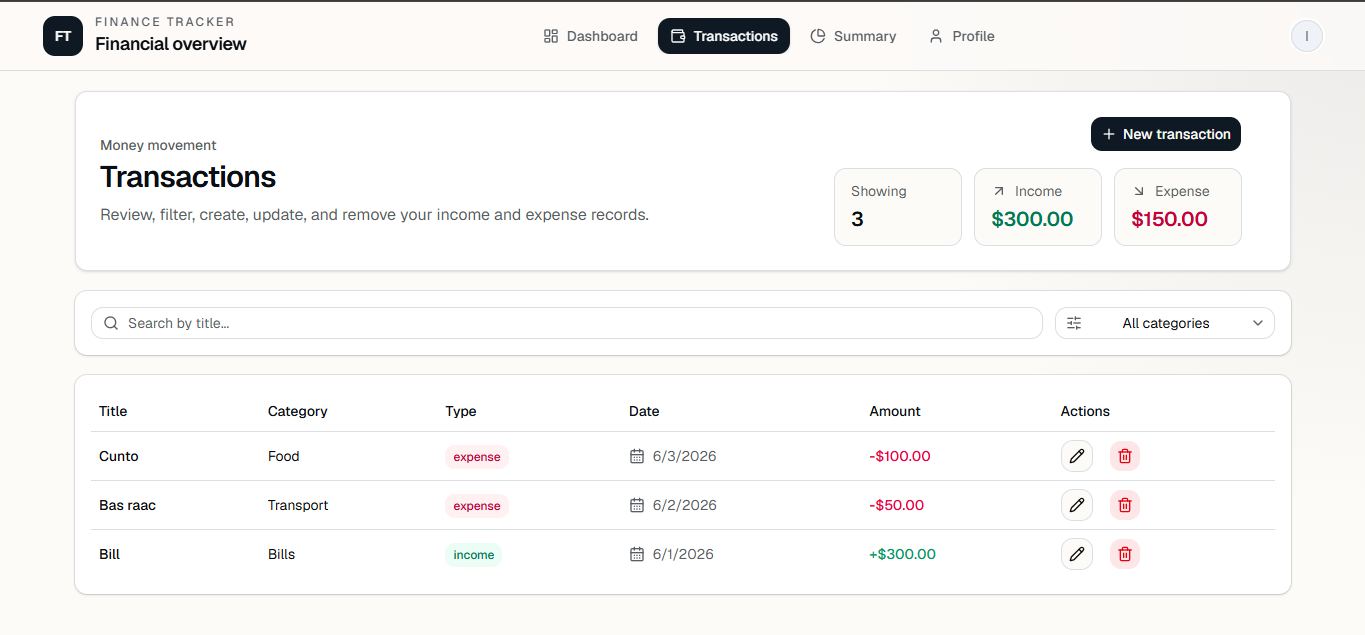
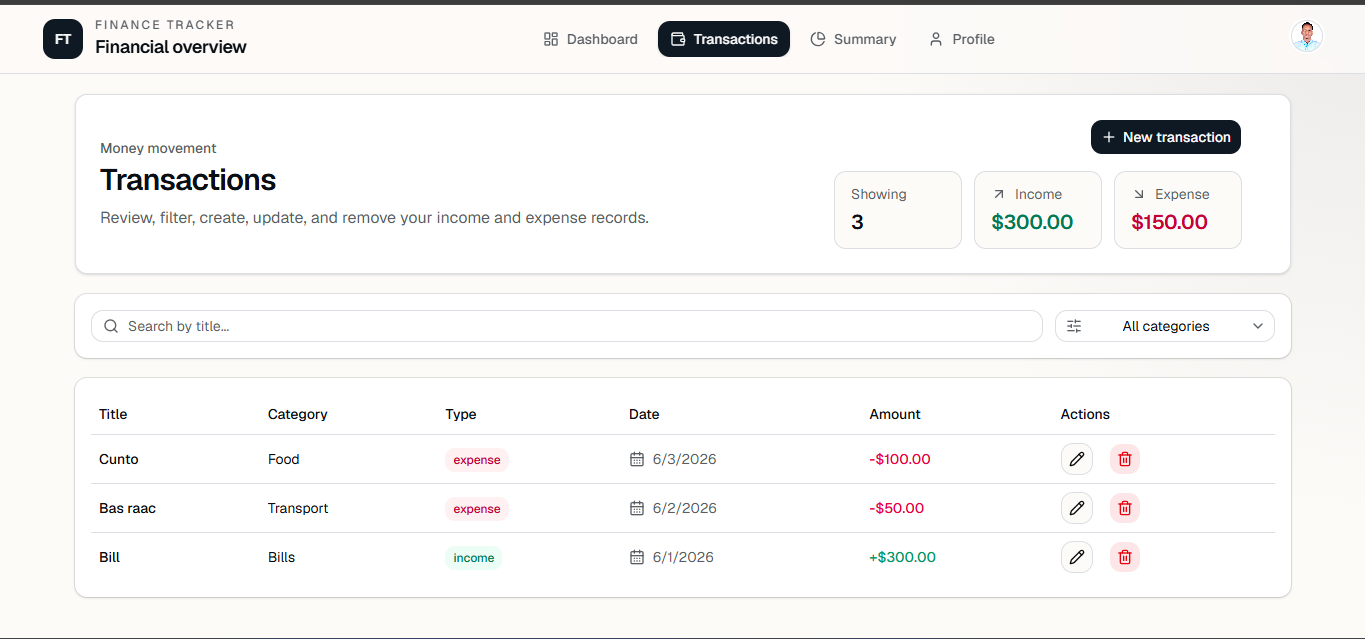
adding screenshots and readme.md

diff --git a/Readme.md b/Readme.md
@@ -1,0 +1,36 @@
+# 📊 Personal Finance Tracker
+
+A modern Mern‑stack web application for tracking income, expenses, categories, and uploads — built with **React (Vite)**, **Node.js**, **MongoDB Atlas**, and **Tailwind CSS**.  
+Deployed live on Render: [Finance Tracker](https://personal-finance-tracker-api-rzyi.onrender.com)
+
+---
+
+## 🚀 Tech Stack
+- **Frontend:** React + Vite + Tailwind CSS
+- **Backend:** Node.js + Express
+- **Database:** MongoDB Atlas
+- **Deployment:** Render
+
+---
+
+## 🖼️ Screenshots
+
+### Login Page
+![Login Screenshot](./screenshots/Register.png)
+
+### 🔑 Login Page
+![Login Screenshot](./screenshots/Login.png)
+
+### 📊 Dashboard
+![Dashboard Screenshot](./screenshots/Dashboard.png)
+
+### 💸 Transactions
+![Transactions Screenshot](./screenshots/Transactions.png)
+
+### 💸 Transactions
+![Summary Screenshot](./screenshots/Summary.png)
+
+### 💸 Transactions
+![Profile Screenshot](./screenshots/Profile.png)
+
+